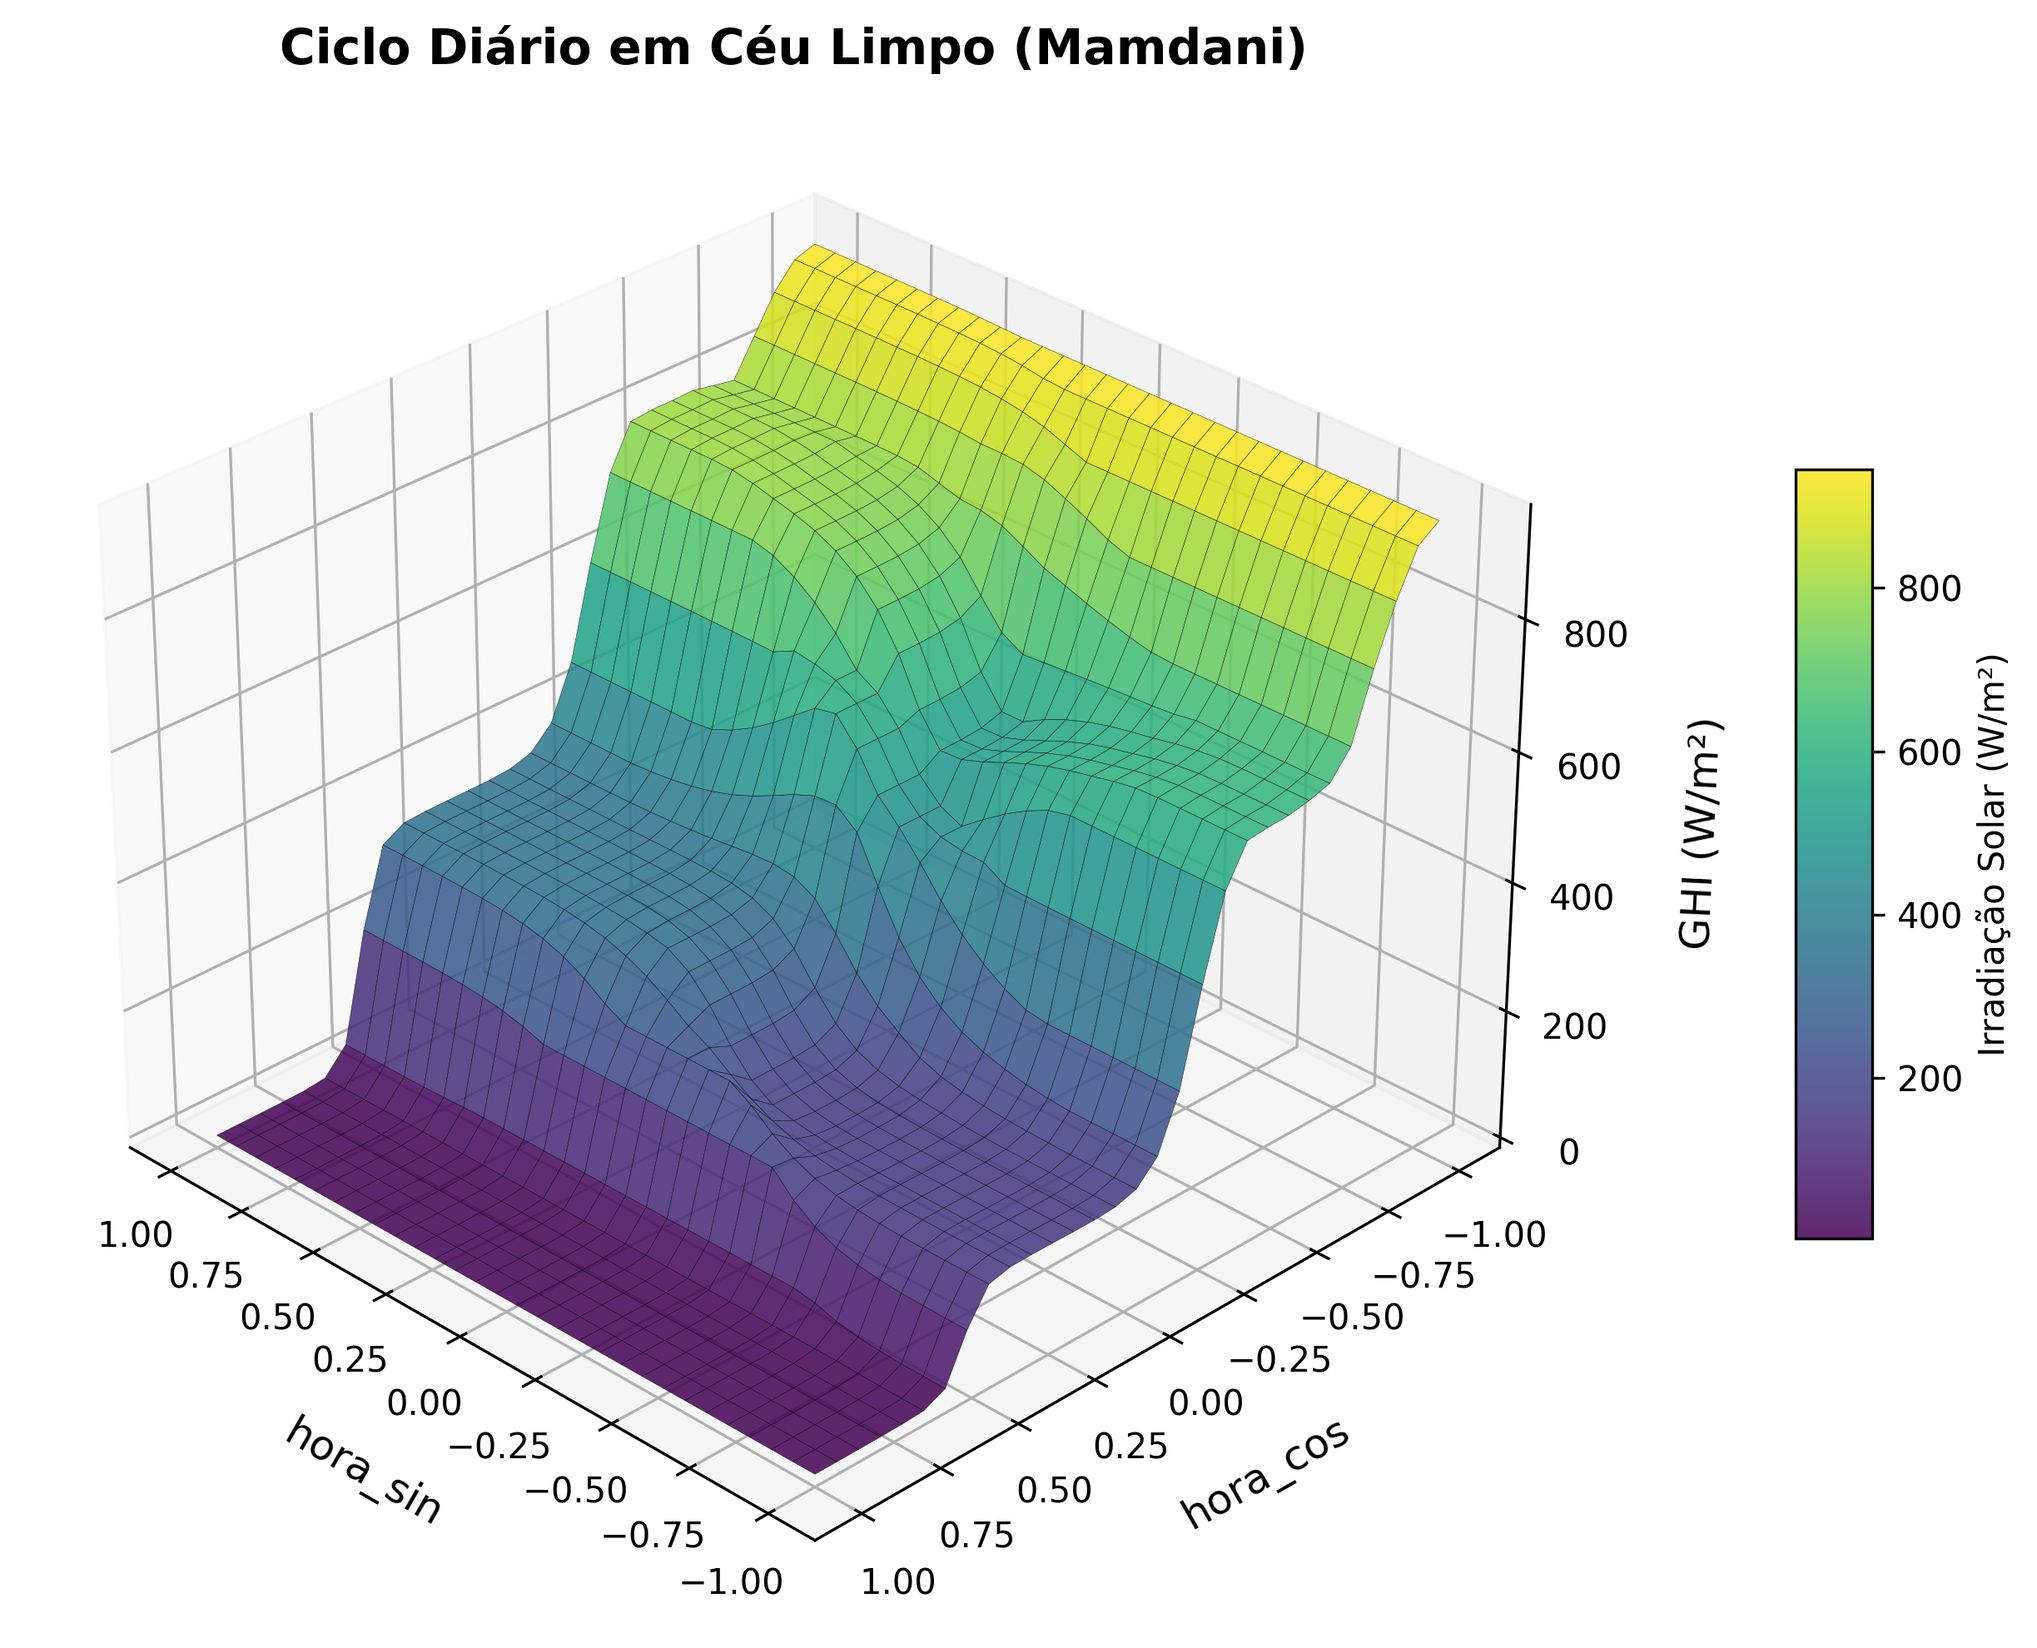
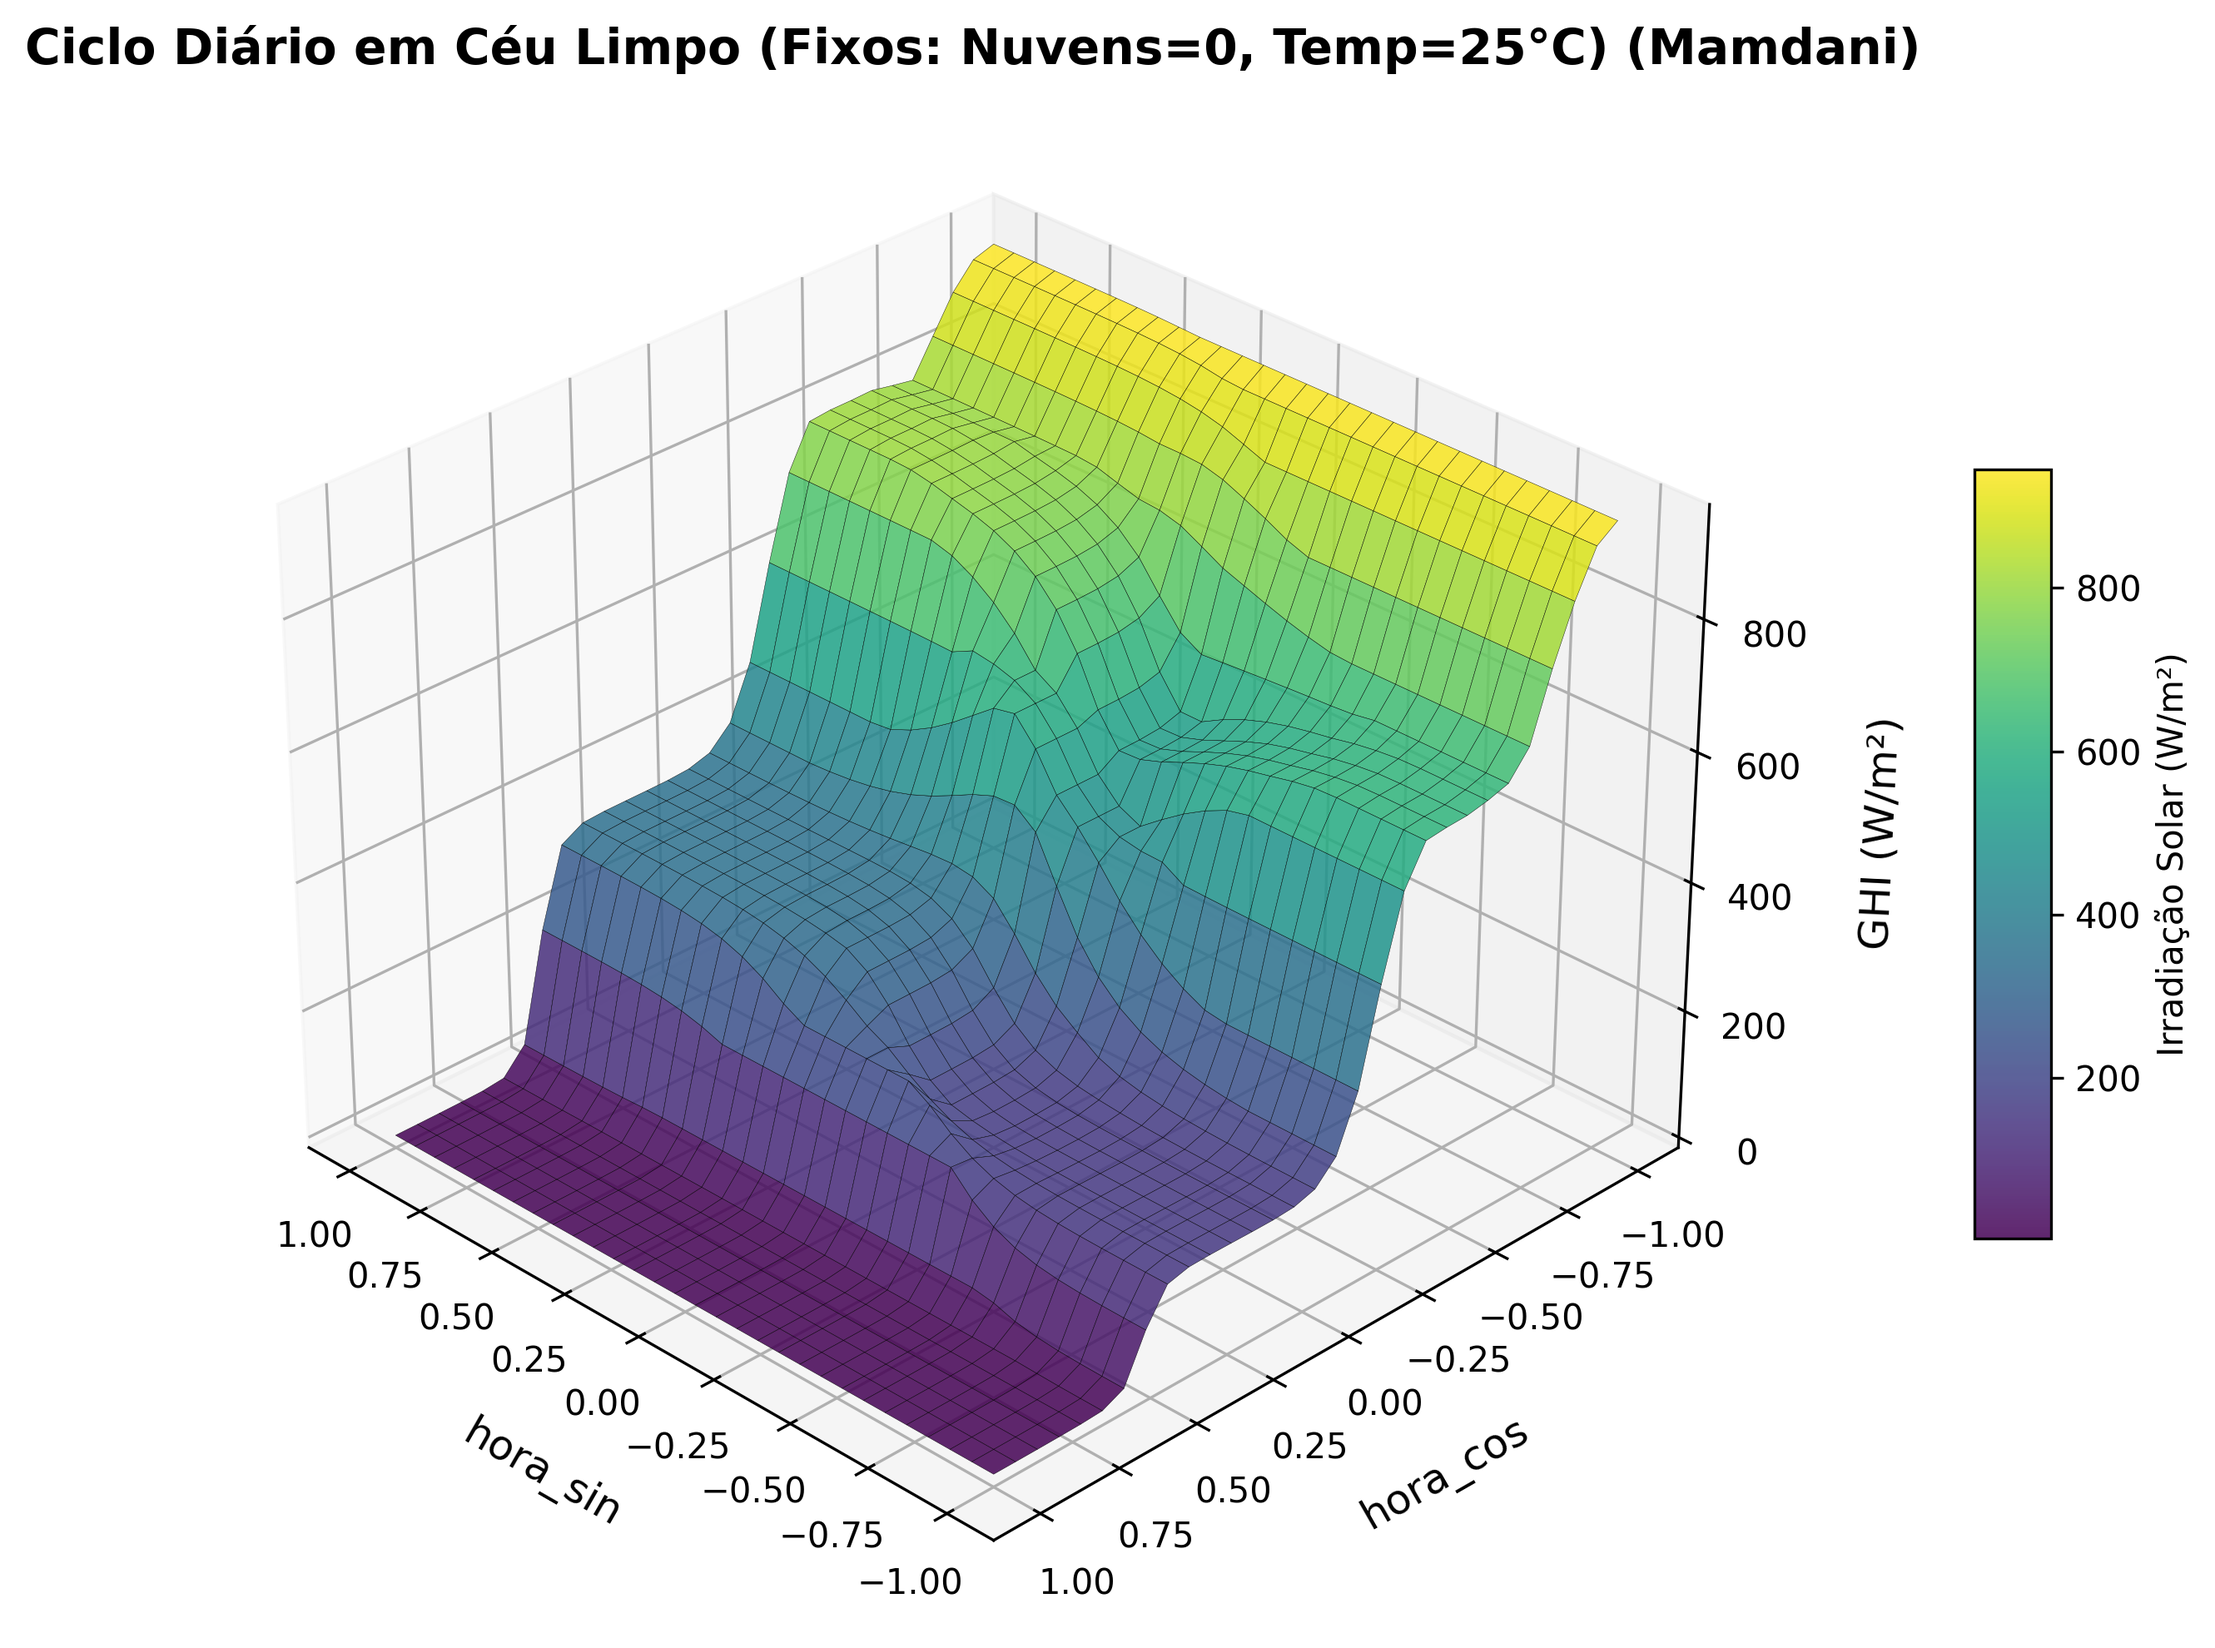
Melhoria na plotagem das superfícies

diff --git a/plot_map.py b/plot_map.py
@@ -102,18 +102,18 @@ if __name__ == "__main__":
     # Fixamos Temperatura em 25°C e Hora Seno em 0 (Meio-dia/Indiferente)
     gerar_superficie(
         tipo_modelo='mamdani',
-        x_nome='hora_cos', x_range=[-1, 1],
-        y_nome='tipo_nuvem', y_range=[0, 10],
+        x_nome='tipo_nuvem', x_range=[0, 10],
+        y_nome='hora_cos', y_range=[-1, 1],
         fixos={'temp_ar': 25, 'hora_sin': 0},
-        titulo="Impacto da Elevação Solar e Nuvens"
+        titulo="Impacto da Elevação Solar e Nuvens (Fixos: Temp=25°C, Hora_sin=0)"
     )
 
     gerar_superficie(
         tipo_modelo='sugeno',
-        x_nome='hora_cos', x_range=[-1, 1],
-        y_nome='tipo_nuvem', y_range=[0, 10],
+        x_nome='tipo_nuvem', x_range=[0, 10],
+        y_nome='hora_cos', y_range=[-1, 1],
         fixos={'temp_ar': 25, 'hora_sin': 0},
-        titulo="Impacto da Elevação Solar e Nuvens"
+        titulo="Impacto da Elevação Solar e Nuvens (Fixos: Temp=25°C, Hora_sin=0)"
     )
 
     # CENÁRIO B: Ciclo Diário (hora_sin) vs Elevação (hora_cos) -> A "Banheira" do Sol
@@ -123,7 +123,7 @@ if __name__ == "__main__":
         x_nome='hora_sin', x_range=[-1, 1],
         y_nome='hora_cos', y_range=[-1, 1],
         fixos={'tipo_nuvem': 0, 'temp_ar': 25},
-        titulo="Ciclo Diário em Céu Limpo"
+        titulo="Ciclo Diário em Céu Limpo (Fixos: Nuvens=0, Temp=25°C)"
     )
     
     gerar_superficie(
@@ -131,5 +131,5 @@ if __name__ == "__main__":
         x_nome='hora_sin', x_range=[-1, 1],
         y_nome='hora_cos', y_range=[-1, 1],
         fixos={'tipo_nuvem': 0, 'temp_ar': 25},
-        titulo="Ciclo Diário em Céu Limpo"
+        titulo="Ciclo Diário em Céu Limpo (Fixos: Nuvens=0, Temp=25°C)"
     )

diff --git a/chat.py b/chat.py
@@ -11,8 +11,8 @@ IMAGE_MAP = {
     "inputs": "predict/fuzzy_inputs.png",
     "saída": "predict/fuzzy_output.png",
     "mapeamento": [
-        "predict/surface_mamdani_hora_cos_vs_tipo_nuvem.png",
-        "predict/surface_sugeno_hora_cos_vs_tipo_nuvem.png",
+        "predict/surface_mamdani_tipo_nuvem_vs_hora_cos.png",
+        "predict/surface_sugeno_tipo_nuvem_vs_hora_cos.png",
         "predict/surface_mamdani_hora_sin_vs_hora_cos.png",
         "predict/surface_sugeno_hora_sin_vs_hora_cos.png"
     ]
